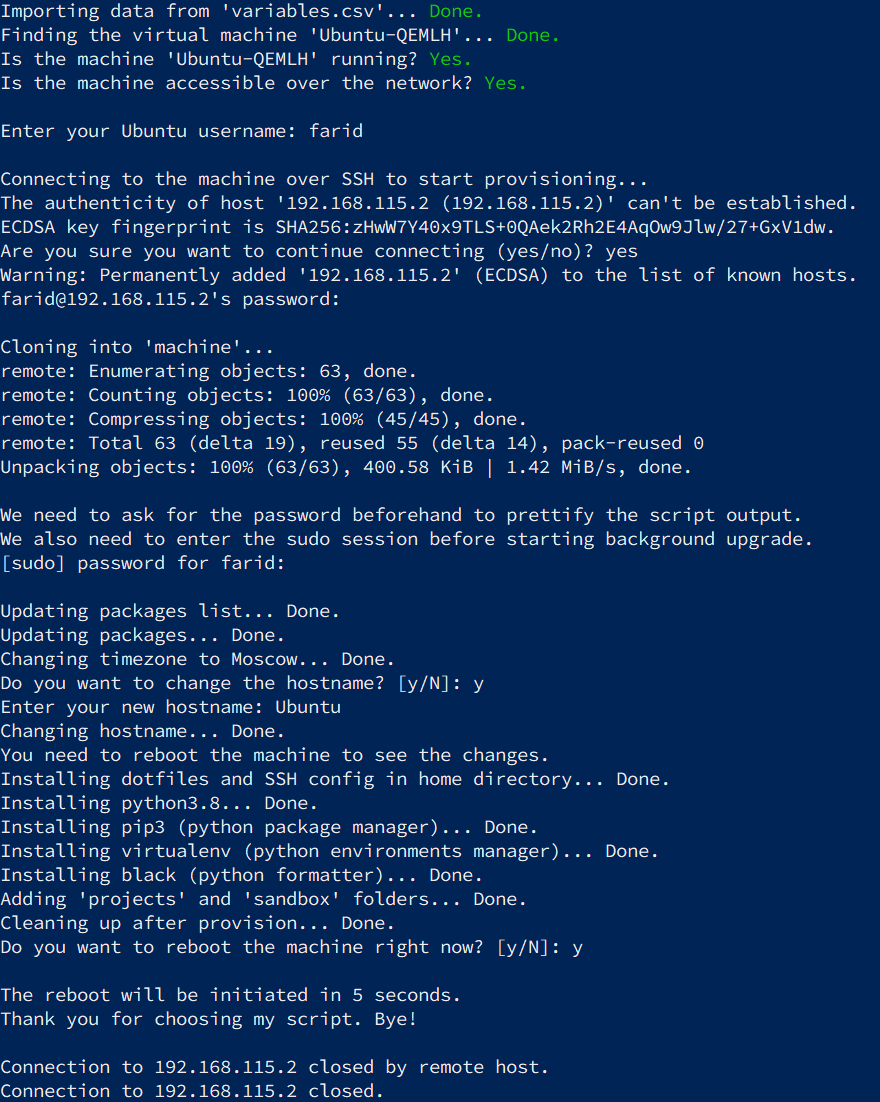
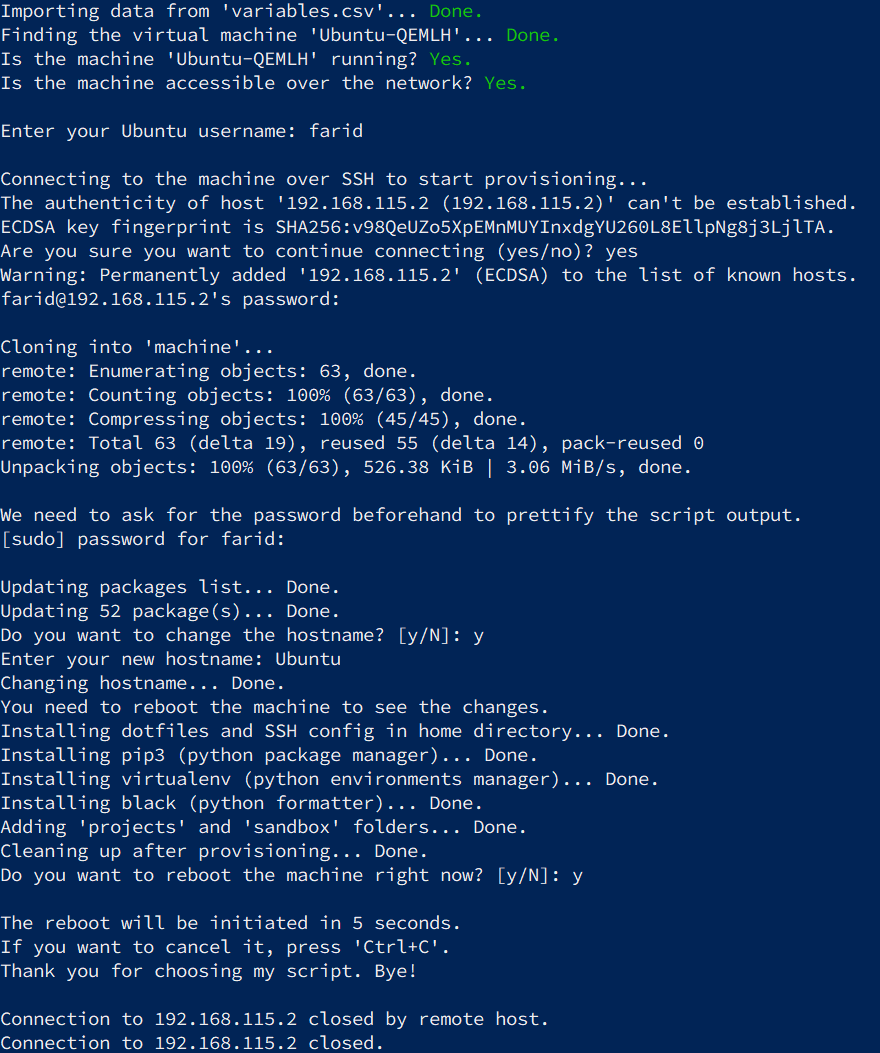
Update 'README.md'

diff --git a/README.md b/README.md
@@ -58,15 +58,14 @@ After rebooting, you'll be prompted to remove the installation media. Just hit `
 
 ## Step 3: Provision Ubuntu Server
 
-Use the `provision.ps1` script in this step. It will check if the machine is available, is running (if not, the script will try to start it), and if it is accessible over the network. Then connect to it, clone the repository, and run the `bootstrap.sh` script.
+Use the `provision.ps1` script in this step. It will check if the machine is available, is running (if not, the script will try to start it), and if it is accessible over the network. Then connect to it, clone the repository, and run the `bootstrap.py` script.
 
-The `bootstrap.sh` script will do the following:
+The `bootstrap.py` script will do the following:
 
 - update packages list and packages themselves;
-- change the time zone to Moscow;
 - provide an opportunity to change the hostname;
-- install dotfiles (you may want to make some adjustments, especially to `.gitconfig`);
-- install python, pip, virtualenv and black;
+- install dotfiles (you may want to make some adjustments afterwards, especially to `.gitconfig`);
+- install pip, virtualenv and black;
 - add some folders and clean up after provisioning.
 
 You'll see a similar output:
